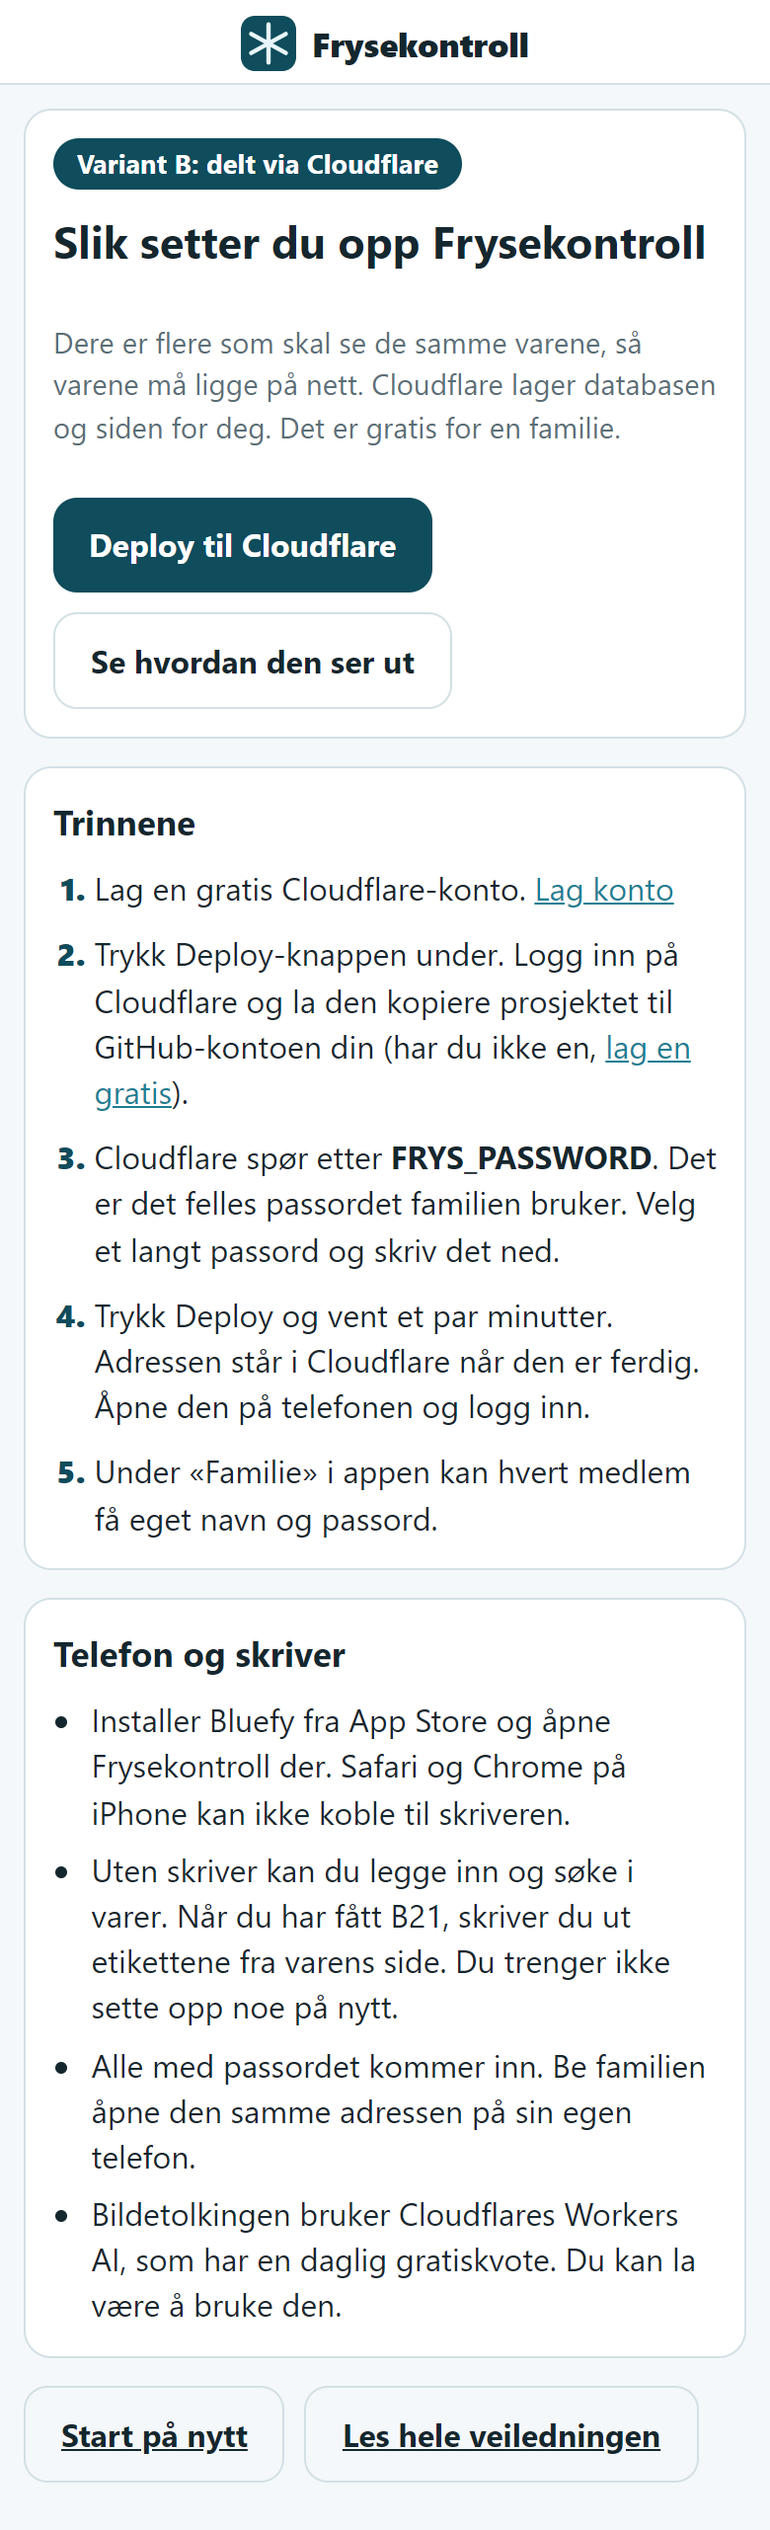
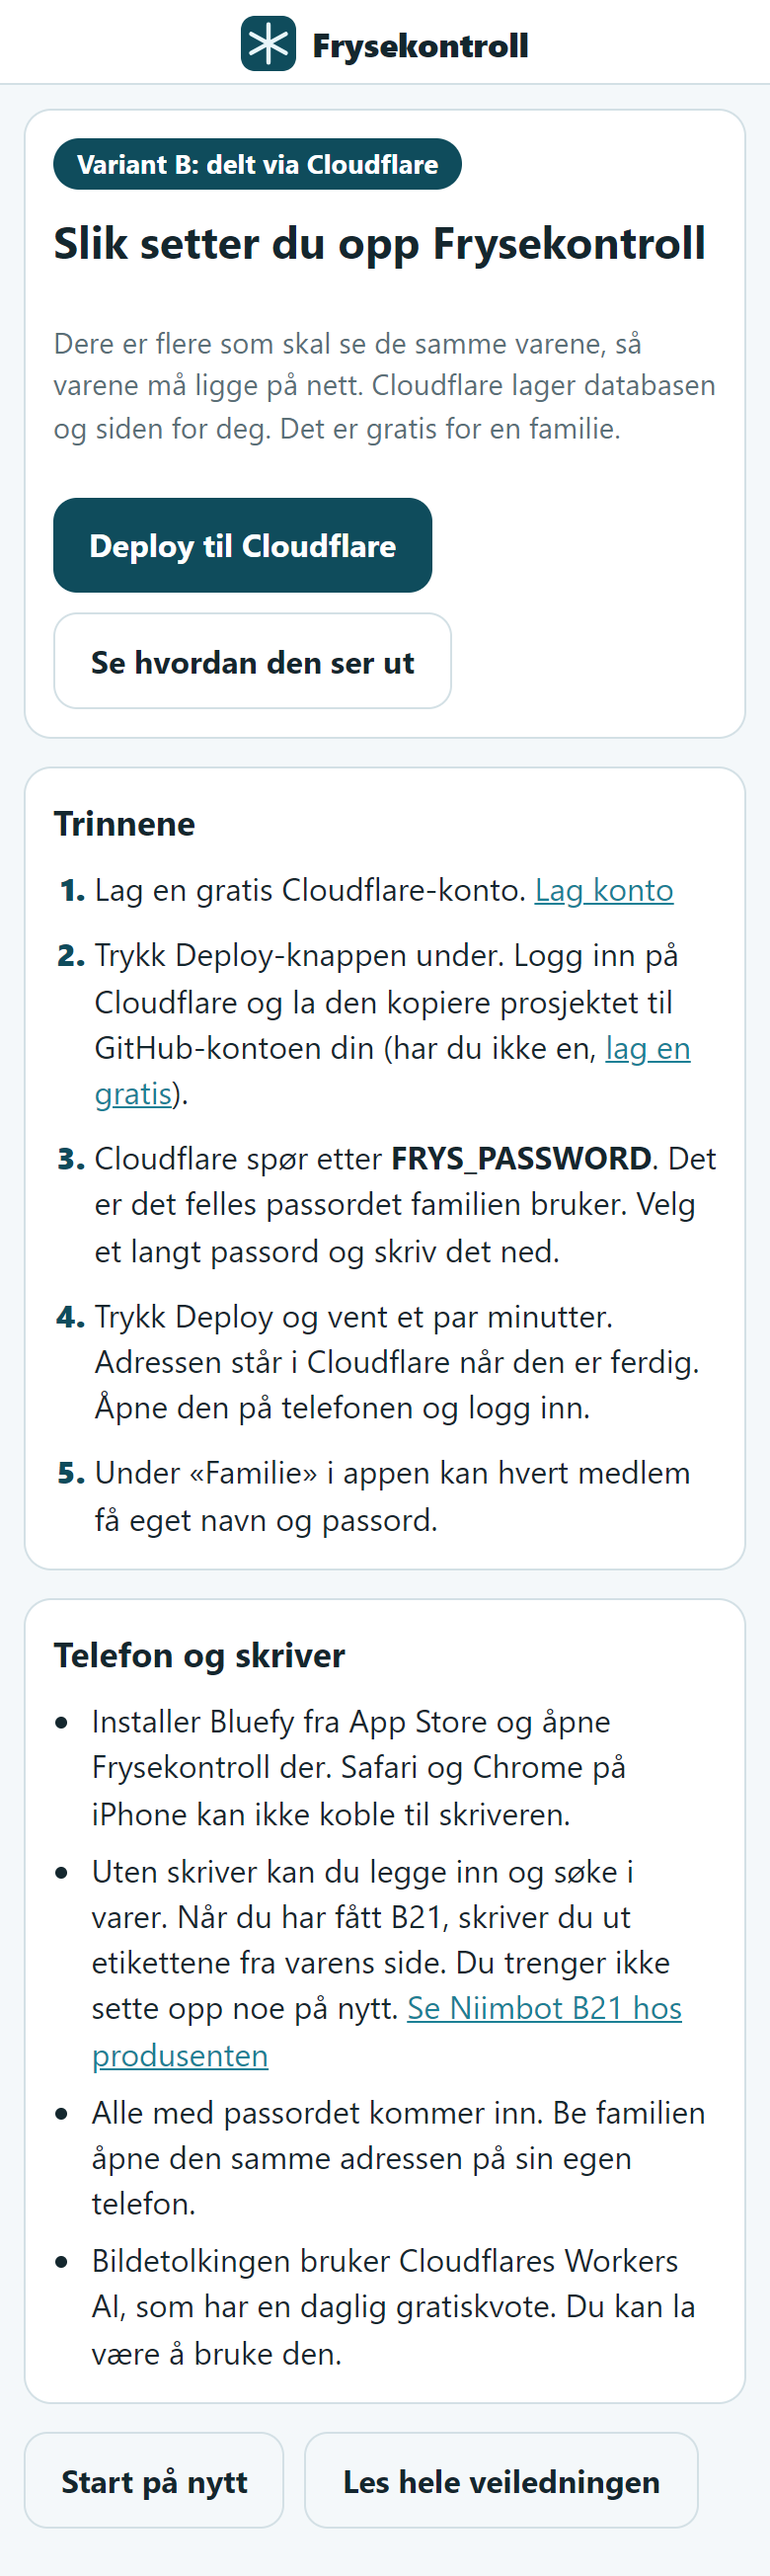
Lenke til Niimbot B21 hos produsenten i README og veiviseren

diff --git a/public/start.js b/public/start.js
@@ -8,6 +8,7 @@ const L = {
   deploy: `https://deploy.workers.cloudflare.com/?url=https://github.com/${REPO}`,
   cloudflare: "https://dash.cloudflare.com/sign-up",
   github: "https://github.com/signup",
+  skriver: "https://www.niimbot.com/us/products/b21-bluetooth-thermal-label-printer",
   readme: `https://github.com/${REPO}#readme`,
   demo: `https://${OWNER}.github.io/${NAME}/`,
 };
@@ -22,7 +23,7 @@ const SPORSMAL = [
     { v: "iphone", t: "iPhone", s: "Du bruker appen Bluefy, siden Safari ikke kan snakke med skriveren." },
     { v: "pc", t: "Bare datamaskin", s: "Du bruker Chrome eller Edge." },
   ] },
-  { id: "skriver", tittel: "Har du en etikettskriver av typen Niimbot B21?", valg: [
+  { id: "skriver", tittel: "Har du en etikettskriver av typen Niimbot B21?", hjelp: { t: "Se skriveren hos produsenten", href: L.skriver }, valg: [
     { v: "ja", t: "Ja", s: "Skriveren og en rull med etiketter." },
     { v: "nei", t: "Nei, ikke ennå", s: "Du kan sette alt opp nå og skrive ut etiketter når du har skriveren." },
   ] },
@@ -60,6 +61,7 @@ function visSporsmal(q, s, nr, totalt) {
     h("h1", {}, q.tittel),
     h("div", { class: "valg", role: "group", "aria-label": q.tittel },
       q.valg.map((o) => h("a", { href: nesteHash(s, q.id, o.v), "aria-current": svar === o.v ? "true" : null }, h("b", {}, o.t), h("small", {}, o.s)))),
+    q.hjelp ? h("p", { class: "muted" }, "Vet du ikke hva det er? ", lenke(q.hjelp.href, q.hjelp.t, "")) : null,
     nr > 1 ? h("div", { class: "row" }, h("button", { class: "btn sec", type: "button", id: "tilbake" }, "Tilbake")) : null);
 }
 
@@ -89,9 +91,10 @@ function resultat(s) {
   const skriver = s.skriver === "ja"
     ? "Trykk «Koble til skriver» i appen. Finner du den ikke, bruk «Vis alle enheter (feilsøking)». Skriv ut en testetikett først for å se at størrelsen stemmer."
     : "Uten skriver kan du legge inn og søke i varer. Når du har fått B21, skriver du ut etikettene fra varens side. Du trenger ikke sette opp noe på nytt.";
+  const skriverLenke = lenke(L.skriver, "Se Niimbot B21 hos produsenten", "");
 
   const noter = [
-    telefon, skriver,
+    telefon, s.skriver === "ja" ? skriver : [skriver, " ", skriverLenke],
     familie ? "Alle med passordet kommer inn. Be familien åpne den samme adressen på sin egen telefon." : "Varene ligger bare i nettleseren på denne ene telefonen. Tømmer du nettleserdata eller bytter telefon, er de borte uten en sikkerhetskopi.",
     familie ? "Bildetolkingen bruker Cloudflares Workers AI, som har en daglig gratiskvote. Du kan la være å bruke den." : null,
   ].filter(Boolean);

diff --git a/README.md b/README.md
@@ -25,7 +25,7 @@ Alle varene på bildene er oppdiktede.
 ## Hva trenger du?
 
 **Alltid**
-- En etikettskriver av typen **Niimbot B21**, og etiketter til den. Etiketter på 40 × 20 mm er det appen kjenner best, men flere størrelser kan velges i appen. Har du skriveren, har du alt du trenger av utstyr.
+- En liten etikettskriver av typen **Niimbot B21** ([se skriveren hos produsenten](https://www.niimbot.com/us/products/b21-bluetooth-thermal-label-printer)): en lommestor termoskriver som kobles til telefonen med Bluetooth, uten blekk, og som printer etiketter opptil 48 mm brede. Du trenger også etiketter til den. Etiketter på 40 × 20 mm er det appen kjenner best, men flere størrelser kan velges i appen. Har du skriveren, har du alt du trenger av utstyr.
 - En telefon. På **Android** bruker du Chrome. På **iPhone** bruker du appen **Bluefy**, siden Safari ikke kan snakke med skriveren. Firefox virker heller ikke.
 - Skriveren kobles til med Bluetooth fra nettleseren. Ingen egen skriverapp trengs.
 
